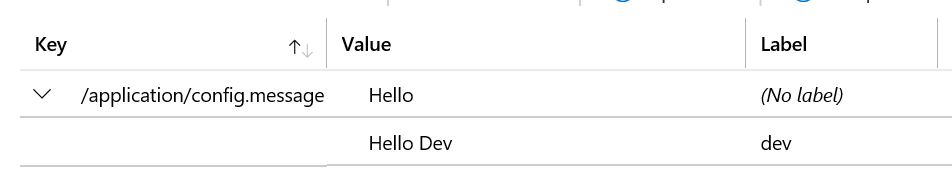
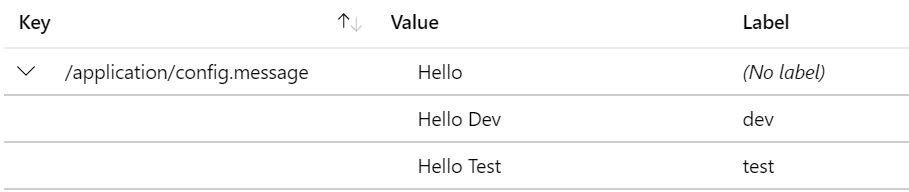
updates

diff --git a/README.md b/README.md
@@ -17,14 +17,14 @@ Run **mvnw package** to build the code.
 
 Run **java -jar target\spring-boot-azure-app-config-0.0.1-SNAPSHOT.jar** to tell spring to pick the default profile
 
-curl -X http://localhost:8080 should print "Hello"
+curl http://localhost:8080 should print "Hello"
 
 **Dev Profile**
 
 Run **java -Dspring.profiles.active=dev -jar target\spring-boot-azure-app-config-0.0.1-SNAPSHOT.jar** to tell spring to pick dev as the active profile.
 
-curl -X http://localhost:8080 should print "Hello Dev"
+curl http://localhost:8080 should print "Hello Dev"
 
 Run **java -Dspring.profiles.active=test -jar target\spring-boot-azure-app-config-0.0.1-SNAPSHOT.jar** to tell spring to pick dev as the active profile.
 
-
+curl http://localhost:8080 should print "Hello Test"
